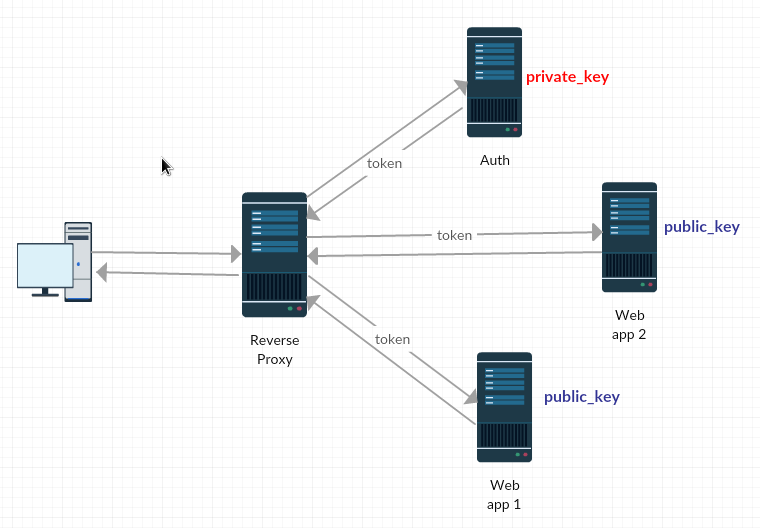
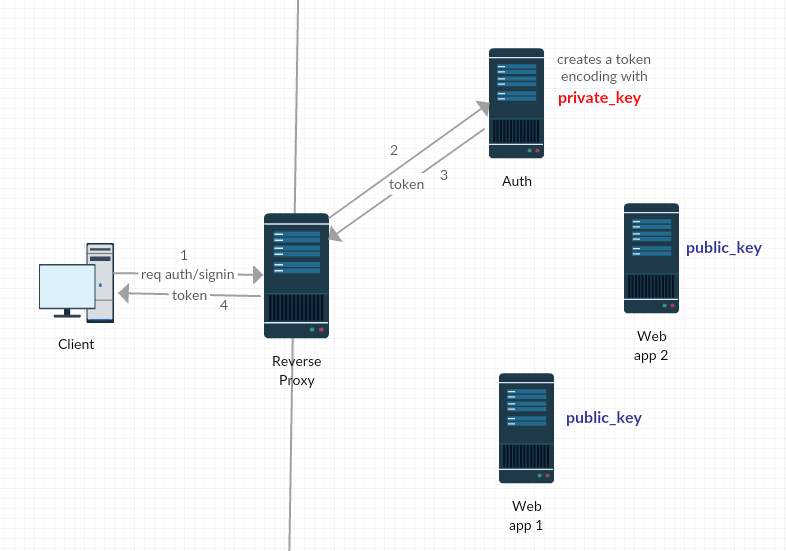
Update README

diff --git a/README.md b/README.md
@@ -1,5 +1,25 @@
 # jwtlab privatenetwork
 
-This is a implementation of single sign on using JWT and python and RSA in a private network exposed by a reverse proxy, like the image below.
+This is a implementation of single sign on using JWT and python and RSA in a private network exposed by a reverse proxy.
+
+The user needs a valid token to access any services from any webapps from that network. To get it, he needs to sign in with valid credentials by sending them to the auth server, like the image below.
 
 ![Architecture](fig.png)
+
+webapp1 and webapp2 manages the user authentication by requiring a valid token within user request and by redirecting them to a login form when the token isn't valid or not sent.
+
+The image below shows a successful access to a service from webapp1.
+
+![Access](fig2.png)
+
+The network environment is implemented using the multi-machine feature from Vagrant. 
+
+To run you need run the following command
+
+`
+vagrant up
+`
+
+This command will rise the 4 virtual servers (the proxy server, the auth server, the webapp1 server and the webapp2 server). The port exposed by the proxy server is the 8070. You can configure this and other network stuff in Vagrantfile.
+
+
